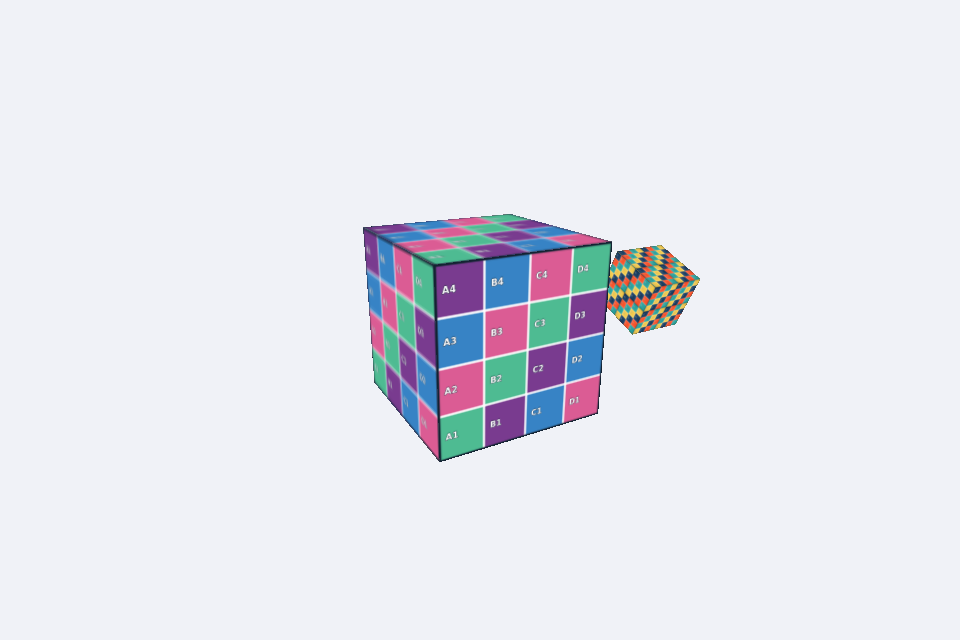
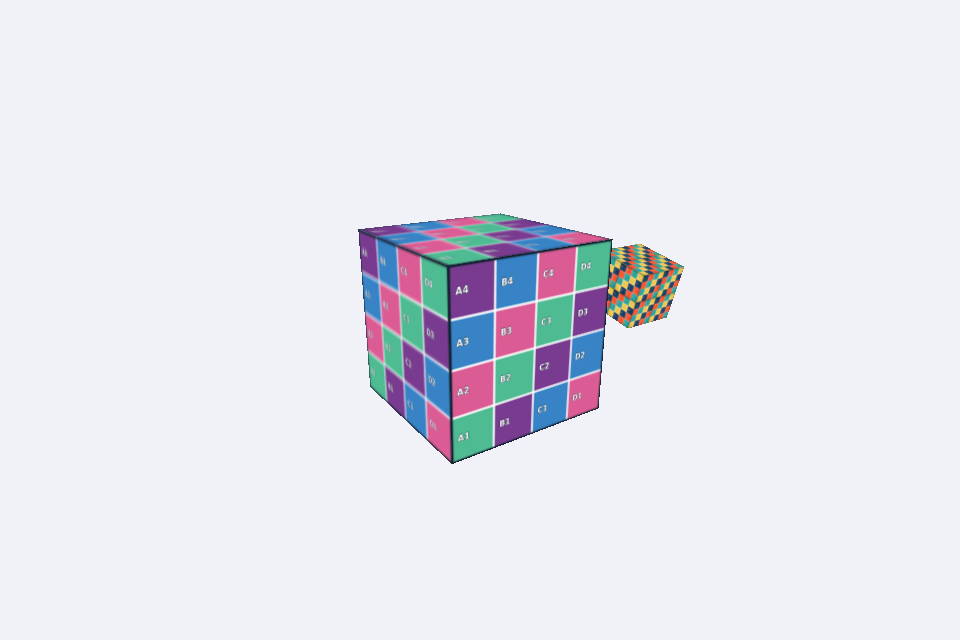
Entrega cubo texturizado com captura e explicacao

Changed region(s): [[0.375, 0.3125, 0.75, 0.7188]]

diff --git a/Aula_Texturas/alunos/README.md b/Aula_Texturas/alunos/README.md
@@ -1,53 +1,13 @@
-# Aula de Texturas: Python e OpenGL
-Professor Rodrigo Fernandes dos Santos. Ciência da Computação.
-## Ambiente
-Python 3.11 a 3.13, Pygame 2.6.1, PyOpenGL 3.1.10, NumPy 1.26 ou 2.x.
-A placa e o driver devem oferecer contexto OpenGL 3.2 core e GLSL 150.
-A instalação das dependências requer internet uma vez. A aula usa texturas locais e funciona sem downloads depois da instalação.
-## Windows (PowerShell)
-Abra o terminal na pasta alunos.
-```powershell
-py -3.12 -m venv .venv
-.venv\Scripts\python.exe -m pip install -r requirements.txt
-.venv\Scripts\python.exe exemplo_retangulo.py
-.venv\Scripts\python.exe exemplo_retangulo.py --repetir 2
-.venv\Scripts\python.exe exemplo_cubo.py
-```
-## macOS (Terminal)
-Abra o terminal na pasta alunos.
-```bash
-python3 -m venv .venv
-.venv/bin/python -m pip install -r requirements.txt
-.venv/bin/python exemplo_retangulo.py
-.venv/bin/python exemplo_retangulo.py --repetir 2
-.venv/bin/python exemplo_cubo.py
-```
-`--repetir 2` aplica repeatUV = [2,2] ao retângulo (slide 19).
+# Cubo com satélite texturizado
 
-ESC fecha a janela. S salva a captura em capturas/resultado.png, relativa à pasta de onde o programa foi iniciado.
-## Organização
-core: Base, Matrix, Object3D, Scene, Camera, Attribute, Uniform, Texture, Mesh, Renderer.
-geometry: Geometry, RectangleGeometry, BoxGeometry.
-material: Material, TextureMaterial.
-shaders: código GLSL. images: grade_uv.png e mosaico.png.
-## Relação com o livro
-Arquitetura e nomes das classes seguem Stemkoski e Pascale, capítulos 3 a 5.
-Este é um subconjunto didático independente, reimplementado para a aula, e não o repositório oficial completo. Pode ser executado sem substituir o projeto anterior dos alunos.
-As classes incluem getWorldMatrix, rotateX/Y/Z, Texture.loadImage/uploadData e vertexUV.
-Adaptações: argumentos opcionais evitam dicionários mutáveis compartilhados; setPosition usa indexação compatível com NumPy 2; matrizes usam GL_FALSE e armazenamento por colunas; caminhos derivam de __file__; Base solicita explicitamente OpenGL 3.2 core.
-O livro usa texture2D e uniform texture. Em GLSL 150 core a função é texture. O uniform chama-se textureSampler para evitar colisão de nomes. Os slides e arquivos usam essa versão.
-TextureMaterial mantém repeatUV, offsetUV e baseColor. O uniform sampler2D guarda [textureRef, 1]. O valor enviado ao shader é 1, o número da unidade, e não textureRef ou GL_TEXTURE1.
-Transparência: o código combina blending e descarte de alpha menor que 0.10 como no capítulo. As imagens desta aula são opacas. Transparência parcial exige cuidados adicionais de ordenação e não integra o exercício.
-## Problemas comuns
-Imagem não encontrada: confira images e o nome do arquivo.
-Janela não abre: confira suporte a OpenGL 3.2 core e driver atualizado. Sessões remotas podem oferecer outro contexto.
-Imagem invertida: mantenha a inversão vertical na conversão RGBA.
-Textura branca/preta: confira sampler, unidade e UV.
-Rotação irregular: use velocidade em radianos por segundo multiplicada por deltaTime.
-## Referência
-STEMKOSKI, Lee; PASCALE, Michael. Developing graphics frameworks with Python and OpenGL. Boca Raton: CRC Press, 2022. DOI: 10.1201/9781003181378. Seções 5.1 a 5.4.
-Documentação: https://www.pygame.org/docs/ref/display.html e https://pyopengl.sourceforge.net/documentation/manual-3.0/glUniform.html
-As texturas foram criadas para este material e podem ser usadas na atividade.
+Disciplina: Computação Gráfica
 
-## Verificação realizada
-Os dois exemplos e a solução do professor renderizaram com OpenGL 4.5 core (Mesa) em Linux e Python 3.12.14, e também no macOS com Python 3.13.2 (Pygame 2.6.1, PyOpenGL 3.1.10, NumPy 2.5.2). Shaders compilaram e o ciclo de desenho terminou sem erro OpenGL. A orientação da grade foi conferida nas capturas. O Windows tem instruções e contexto 3.2 core preparado, mas não foi testado diretamente. No macOS, Material cria um VAO temporário antes de compilar os shaders, pois o perfil core exige um VAO vinculado na validação do programa.
+Atividade: Cubo com satélite texturizado
+
+Integrantes: Gabriel Possa Lima e Darlan José dos Santos
+
+Descrição: O cubo principal usa `mosaico.png`. O satélite, filho dele, usa `grade_uv.png` com `repeatUV = [2, 2]`, fica a 1,3 unidade do centro e tem escala 0,4. Ele acompanha a rotação do cubo principal e também gira no próprio eixo X.
+
+Resposta da questão: As coordenadas UV associam os vértices de cada face a posições da imagem: U indica a direção horizontal e V a vertical. Assim, o renderizador sabe qual parte da textura aplicar em cada ponto da superfície. Com `repeatUV = [2, 2]` e o modo de repetição da textura, a imagem aparece duas vezes em cada direção de cada face, formando uma grade de 2 × 2 cópias sem alterar a geometria.
+
+![resultado](capturas/resultado.png)
